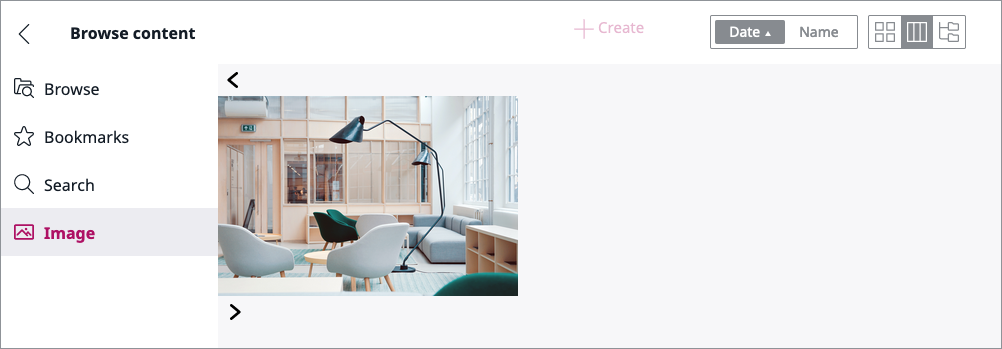
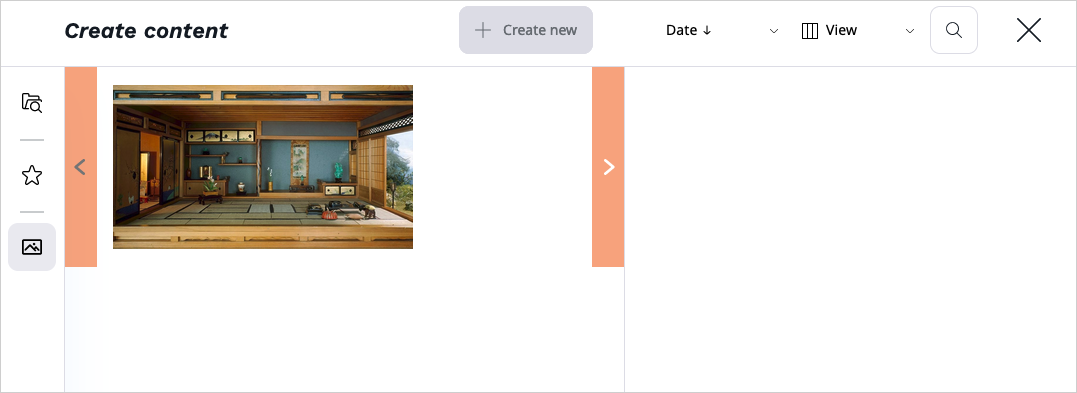
Added tab

diff --git a/code_samples/back_office/udw/assets/js/image-tab/image.tab.module.js b/code_samples/back_office/udw/assets/js/image-tab/image.tab.module.js
@@ -1,28 +1,28 @@
 import React, { useContext } from 'react';
-    
-    import Tab from '../../../vendor/ezsystems/ezplatform-admin-ui/src/bundle/ui-dev/src/modules/universal-discovery/components/tab/tab';
-    import ImagesList from './components/images.list';
-    
-    const ImageTabModule = () => {
-        return (
-            <div className="m-image-tab">
-                <Tab isContentOnTheFlyDisabled={true} isSortSwitcherDisabled={true} isViewSwitcherDisabled={true}>
-                    <ImagesList />
-                </Tab>
-            </div>
-        );
-    };
+
+import Tab from '../../../vendor/ibexa/admin-ui/src/bundle/ui-dev/src/modules/universal-discovery/components/tab/tab';
+import ImagesList from './components/image.list';
+
+const ImageTabModule = () => {
+    return (
+        <div className="m-image-tab">
+            <Tab isContentOnTheFlyDisabled={true} isSortSwitcherDisabled={true} isViewSwitcherDisabled={true}>
+                <ImagesList />
+            </Tab>
+        </div>
+    );
+};
 ibexa.addConfig(
-    'adminUiConfig.universalDiscoveryWidget.tabs',
+'adminUiConfig.universalDiscoveryWidget.tabs',
     [
         {
             id: 'image',
             component: ImageTabModule,
             label: 'Image',
-            icon: '/bundles/ibexaplatformicons/img/all-icons.svg#image',
+            icon: '/bundles/ibexaadminui/img/ibexa-icons.svg#image',
         },
     ],
     true
 );
-    
+
 export default ImageTabModule;

diff --git a/code_samples/back_office/udw/assets/js/image-tab/components/images.list.js b/code_samples/back_office/udw/assets/js/image-tab/components/images.list.js
@@ -2,7 +2,7 @@ import React, { useState, useContext, useEffect } from 'react';
 import Image from './image';
 import { getImages } from '../services/images.service';
 
-import { RestInfoContext } from '../../../../vendor/ezsystems/ezplatform-admin-ui/src/bundle/ui-dev/src/modules/universal-discovery/universal.discovery.module';
+import { RestInfoContext } from '../../../../vendor/ibexa/admin-ui/src/bundle/ui-dev/src/modules/universal-discovery/universal.discovery.module';
 
 const ImagesList = () => {
     const [images, setImages] = useState([]);
@@ -59,7 +59,7 @@ const ImagesList = () => {
         return (
             <div {...attrs}>
                 <svg className="ibexa-icon">
-                    <use xlinkHref="/bundles/ibexaplatformicons/img/all-icons.svg#caret-back"></use>
+                    <use xlinkHref="/bundles/ibexaadminui/img/ibexa-icons.svg#caret-back"></use>
                 </svg>
             </div>
         );
@@ -76,8 +76,8 @@ const ImagesList = () => {
 
         return (
             <div {...attrs}>
-                <svg className="ibexa-icon">
-                    <use xlinkHref="/bundles/ibexaplatformicons/img/all-icons.svg#caret-next"></use>
+                <svg className="ez-icon">
+                    <use xlinkHref="/bundles/ibexaadminui/img/ibexa-icons.svg#caret-next"></use>
                 </svg>
             </div>
         );

diff --git a/docs/extending/add_udw_tab.md b/docs/extending/add_udw_tab.md
@@ -1,0 +1,165 @@
+# Add browser tab
+
+The Universal Discovery Widget (UDW) is a separate React module. By default, it contains three tabs: Browse and Bookmarks.
+![UDW default tabs](img/udw_tabs.png)
+
+Follow the instructions below to create and add a new tab called **Images** which displays all Content items of the type 'Image'.
+
+## Create tab
+
+First, in `assets/js/image-tab/`, add an `image.tab.module.js` file.
+
+``` js
+[[= include_file('code_samples/back_office/udw/assets/js/image-tab/image.tab.module.js', 0,14) =]]
+```
+
+Next, add the tab to the configuration in the same file.
+Each tab definition is an object containing the following properties:
+
+|Property|Value|Definition|
+|-----------|------|----------|
+|id|string|Tab ID, for example, `image`.|
+|component|element|React component that represents the contents of a tab.|
+|label|string|Label text, for example, `Images`.|
+|icon|string|Path to the icon, for example, `/bundles/ibexaadminui/img/ibexa-icons.svg#image`.|
+
+```js
+[[= include_file('code_samples/back_office/udw/assets/js/image-tab/image.tab.module.js', 14,29) =]]
+```
+
+The module governs the creation of the new tab.
+
+<details class="tip">
+<summary>Complete image.tab.module.js code</summary>
+```js
+[[= include_file('code_samples/back_office/udw/assets/js/image-tab/image.tab.module.js') =]]
+```
+</details>
+
+## Add tab to webpack config
+
+In `webpack.config.js`, add the following key:
+```js
+const ibexaConfigManager = require('./ibexa.webpack.config.manager.js');
+```
+
+Next, provide configuration for the new module:
+
+```js
+ibexaConfigManager.add({
+    ibexaConfig,
+    entryName: 'ibexa-admin-ui-udw-tabs-js',
+    newItems: [path.resolve(__dirname, './assets/js/image-tab/image.tab.module.js')],
+});
+```
+
+## Provide ReactJS files
+
+Next, you need to provide a set of files used to render the module:
+
+- `images.service.js` handles fetching the images
+- `images.list.js` renders the image list
+- `image.js` renders a single image
+
+### `images.service.js`
+
+Create a service for fetching the images by adding `images.service.js` to `assets/js/image-tab/services/`:
+
+```js
+[[= include_file('code_samples/back_office/udw/assets/js/image-tab/services/images.service.js') =]]
+```
+
+### `images.list.js`
+
+Next, create an image list by adding an `images.list.js` to `assets/js/image-tab/components/`:
+
+```js
+[[= include_file('code_samples/back_office/udw/assets/js/image-tab/components/images.list.js') =]]
+```
+
+### `image.js`
+
+Finally, create an image view by adding an `image.js` to `assets/js/image-tab/components/`:
+
+```js
+[[= include_file('code_samples/back_office/udw/assets/js/image-tab/components/image.js') =]]
+```
+
+##  Add styles
+
+Ensure that the new tab is styled by adding the following files to `assets/css/`.
+
+### `images.list.css`
+
+```css
+[[= include_file('code_samples/back_office/udw/assets/css/image.list.css') =]]
+```
+
+### `image.css`
+
+```css
+[[= include_file('code_samples/back_office/udw/assets/css/image.css') =]]
+```
+
+### Add css to webpack
+
+Finally, add css in `webpack.config.js`:
+
+```js
+ibexaConfigManager.add({
+    ibexaConfig,
+    entryName: 'ibexa-admin-ui-layout-css',
+    newItems: [path.resolve(__dirname, './assets/css/image.css'), path.resolve(__dirname, './assets/css/images.list.css')],
+});
+```
+
+??? tip "Complete `webpack.config.js` code"
+
+    ```js
+    const Encore = require('@symfony/webpack-encore');
+    const path = require('path');
+    const getIbexaConfig = require('./ibexa.webpack.config.js');
+    const ibexaConfig = getIbexaConfig(Encore);
+    const customConfigs = require('./ibexa.webpack.custom.configs.js');
+    const ibexaConfigManager = require('./ibexa.webpack.config.manager.js');
+    Encore.reset();
+    Encore
+        .setOutputPath('public/build/')
+        .setPublicPath('/build')
+        .enableStimulusBridge('./assets/controllers.json')
+        .enableSassLoader()
+        .enableReactPreset()
+        .enableSingleRuntimeChunk()
+    
+    // Put your config here.
+    
+    ibexaConfigManager.add({
+    ibexaConfig,
+    entryName: 'ibexa-admin-ui-udw-tabs-js',
+    newItems: [path.resolve(__dirname, './assets/js/image-tab/image.tab.module.js')],
+    });
+    
+    ibexaConfigManager.add({
+    ibexaConfig,
+    entryName: 'ibexa-admin-ui-layout-css',
+    });
+    
+    // uncomment the two lines below, if you added a new entry (by Encore.addEntry() or Encore.addStyleEntry() method) to your own Encore configuration for your project
+    // const projectConfig = Encore.getWebpackConfig();
+    // module.exports = [ eZConfig, ...customConfigs, projectConfig ];
+    
+    // comment-out this line if you've uncommented the above lines
+    module.exports = [ ibexaConfig, ...customConfigs, projectConfig ];
+    ```
+
+## Check results
+    
+In the Back Office go to **Content** -> **Content structure**. On the left panel, click **Browse**.
+In the UDW a new **Images** tab appears, listing all images from the Repository.
+
+![Image tab in UDW](img/udw_image_tab.png)
+
+!!! tip
+
+    If you cannot see the results or encounter an error, clear the cache and reload the application. 
+    Remember, after any change of css/js file you should always run `yarn encore dev` in the terminal.

diff --git a/docs/extending/extending_udw.md b/docs/extending/extending_udw.md
@@ -59,7 +59,7 @@ There you can set the following properties:
 |active_sort_clause</br>`activeSortClause`|DatePublished</br>ContentName|no|Sort Clause by which children in the Content Tree will be sorted.|
 |active_sort_order</br>`activeSortOrder`|ascending</br>descending|no|Sorting order of the children in the Content Tree.|
 |active_tab</br>`activeTab`|browse</br>search</br>bookmarks|no|Starting tab in the UDW.|
-|active_view</br>`activeView`|finder</br>grid|no|Starting view in the UDW.|
+|active_view</br>`activeView`|finder</br>grid</br>tree|no|Starting view in the UDW.|
 |allow_redirects</br>`allowRedirects`|true</br>false|yes|Allows to redirect content from the UDW tab to another page, for example, to Content Edit page.|
 |selected_locations</br>`selectedLocations`|[]</br>[locationId]|no|Location that will be selected automatically.|
 |allow_confirmation</br>`allowConfirmation`|true</br>false|yes|Shows confirmations buttons in the UDW. If set to false, it will not be possible to confirm selection.|
